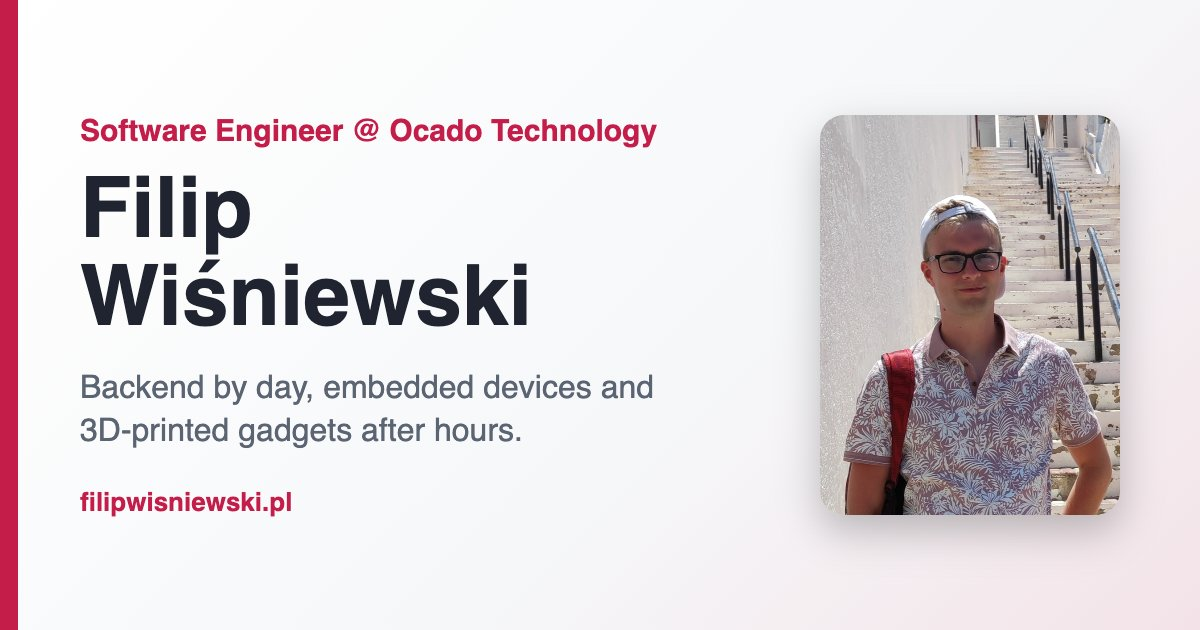
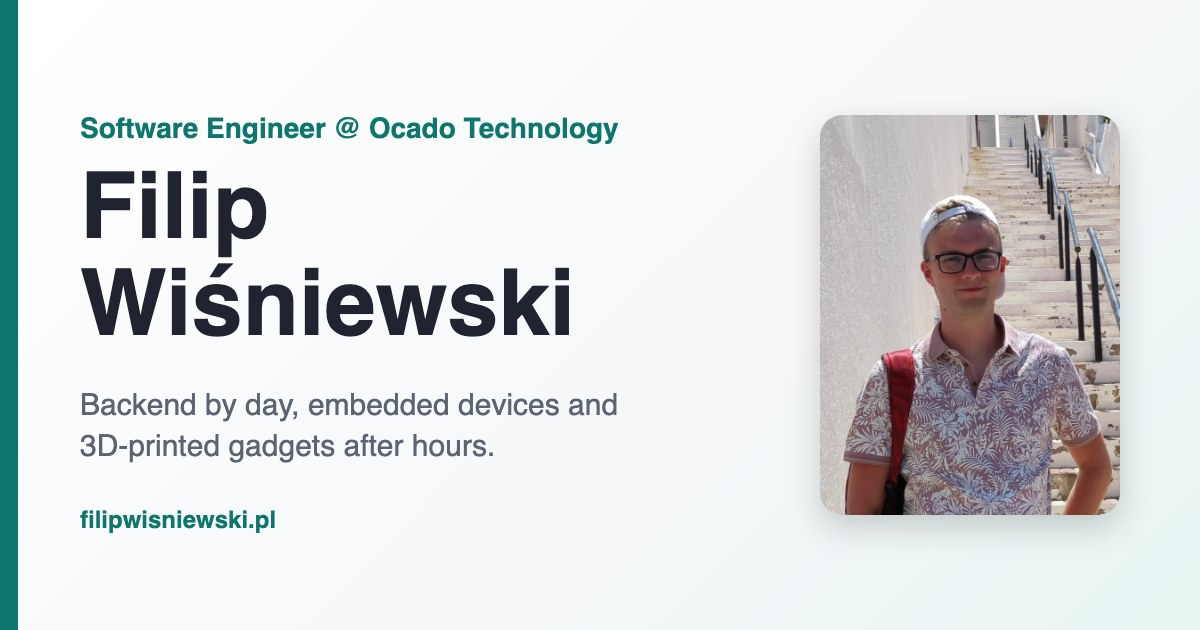
Switch the accent color from red/pink to teal

diff --git a/src/styles.scss b/src/styles.scss
@@ -11,11 +11,11 @@
     --text: #e8eaf0;
     --muted: #a3acb9;
     --border: #2d3442;
-    --accent: #ff7a9a;
-    --accent-soft: #3a1f29;
-    --accent-soft-text: #ffb3c6;
-    --btn-bg: #d92d5c;
-    --btn-bg-hover: #e8466f;
+    --accent: #5eead4;
+    --accent-soft: #12332f;
+    --accent-soft-text: #99f6e4;
+    --btn-bg: #0f766e;
+    --btn-bg-hover: #0d8a80;
     --btn-text: #ffffff;
     --btn-secondary-bg: #2a3040;
     --btn-secondary-hover: #343c50;
@@ -25,7 +25,7 @@
     --warning-text: #ffe69c;
     --danger: #ff8a9b;
     --danger-bg: #3c1a22;
-    --header-bg: #a3173d;
+    --header-bg: #0b5a54;
     --shadow: 0 2px 10px rgba(0, 0, 0, 0.5);
     --focus: #8ab4f8;
 }
@@ -39,11 +39,11 @@
     --text: #1f2430;
     --muted: #5b6472;
     --border: #e5e8ec;
-    --accent: #c51d4a;
-    --accent-soft: #f3e3e8;
-    --accent-soft-text: #7d1230;
-    --btn-bg: #c51d4a;
-    --btn-bg-hover: #a3173d;
+    --accent: #0f766e;
+    --accent-soft: #daf1ee;
+    --accent-soft-text: #0a4f4a;
+    --btn-bg: #0f766e;
+    --btn-bg-hover: #0b5a54;
     --btn-text: #ffffff;
     --btn-secondary-bg: #eceff3;
     --btn-secondary-hover: #dde1e8;
@@ -53,7 +53,7 @@
     --warning-text: #664d03;
     --danger: #b00020;
     --danger-bg: #fdecef;
-    --header-bg: #c51d4a;
+    --header-bg: #0f766e;
     --shadow: 0 2px 8px rgba(0, 0, 0, 0.08);
     --focus: #1a73e8;
     --radius: 12px;

diff --git a/src/index.html b/src/index.html
@@ -8,7 +8,7 @@
             content="Portfolio of Filip Wiśniewski, a software engineer at Ocado Technology building backend systems, embedded devices and 3D-printed gadgets, including The Raspberry SPY." />
         <base href="/" />
         <meta name="viewport" content="width=device-width, initial-scale=1.0" />
-        <meta name="theme-color" content="#c51d4a" />
+        <meta name="theme-color" content="#0f766e" />
         <link rel="canonical" href="https://filipwisniewski.pl/" />
 
         <meta property="og:type" content="website" />

diff --git a/src/components/video-stream/mock-camera.ts b/src/components/video-stream/mock-camera.ts
@@ -38,7 +38,7 @@ export function createMockCameraStream(): MockCamera {
             context.stroke()
         }
 
-        context.fillStyle = '#c51d4a'
+        context.fillStyle = '#0f766e'
         context.beginPath()
         context.arc(WIDTH / 2 + Math.cos(t) * 220, HEIGHT / 2 + Math.sin(t * 1.3) * 120, 36, 0, Math.PI * 2)
         context.fill()

diff --git a/AGENTS.md b/AGENTS.md
@@ -53,7 +53,7 @@ src/
     root/                 # <router-outlet/> + <toasts/>
     portfolio/            # public landing page: portfolio.ts/html/scss, portfolio.data.ts (ALL copy: skills, projects, links), raspberry-spy-section/ (status badge + gallery + embedded greeting form)
     shell/                # AppShell: layout of the signed-in area
-    header/ (+ mobile/)   # red header with tabs (Live stream, Alarm, Stats, Portfolio), theme toggle, sign out; compact on phones + bottom nav
+    header/ (+ mobile/)   # teal header with tabs (Live stream, Alarm, Stats, Portfolio), theme toggle, sign out; compact on phones + bottom nav
     backend-status-banner/ # "Raspberry is probably switched off" bar (shell + login)
     toasts/  theme-toggle/  sparkline/   # small shared UI pieces
     login/  greetings/ (embedded widget, not a page)  alarm-manager/ (+ alarm/)  video-stream/ (+ slider, longpress-button, mock-camera)  stats/ (stats-page)
